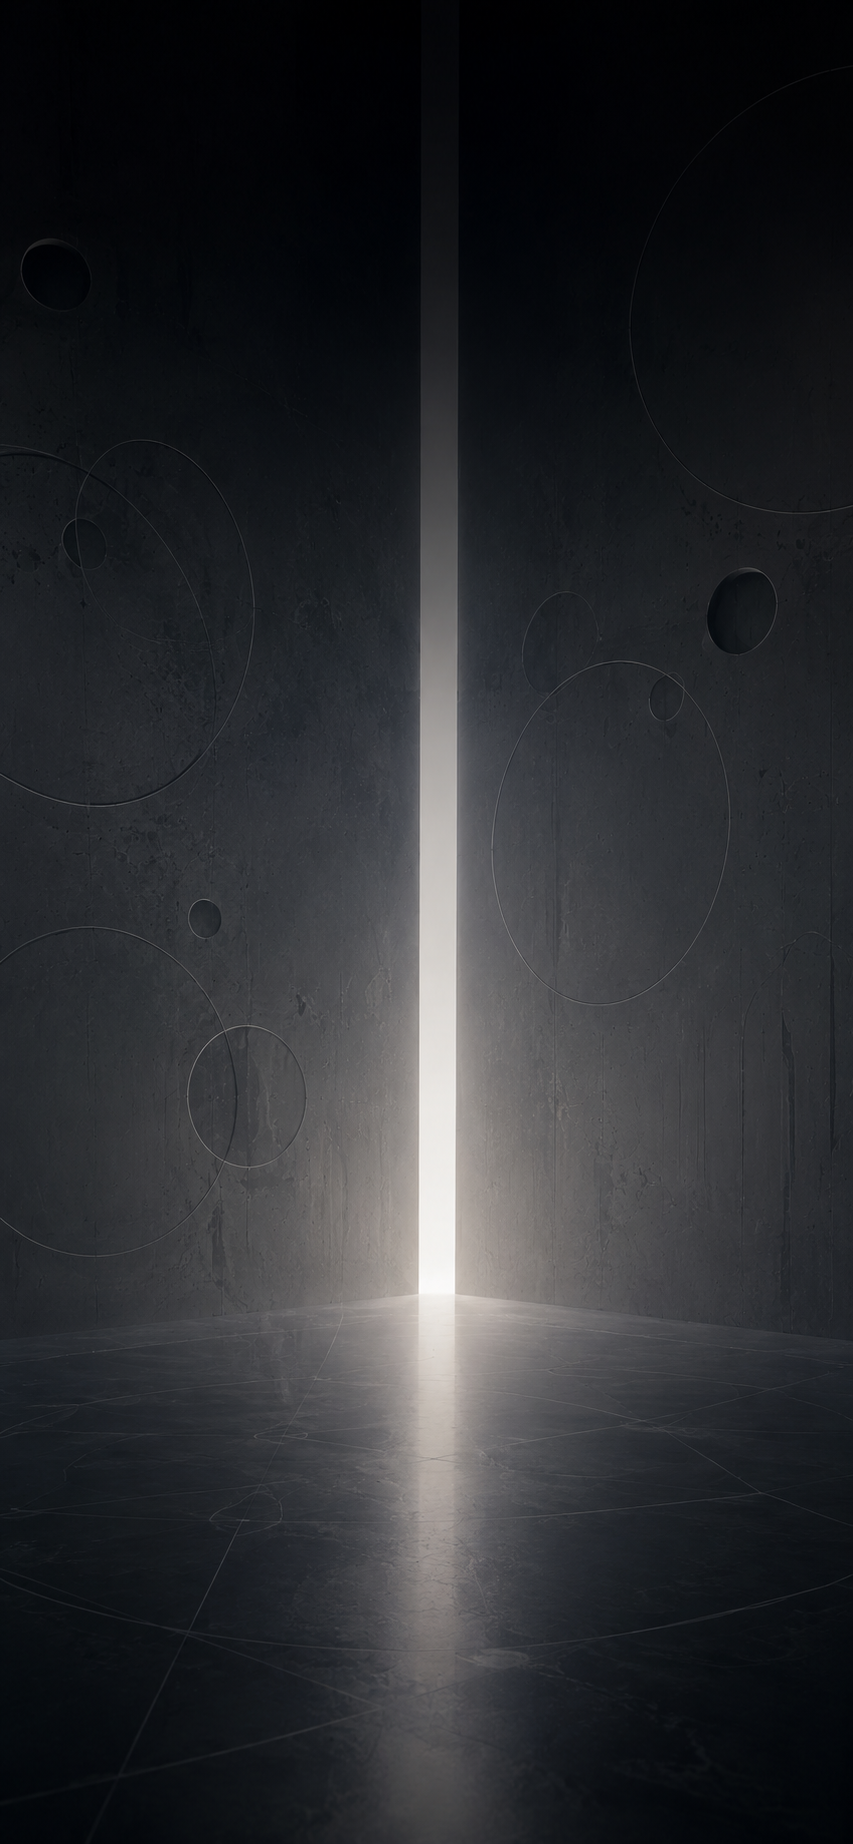
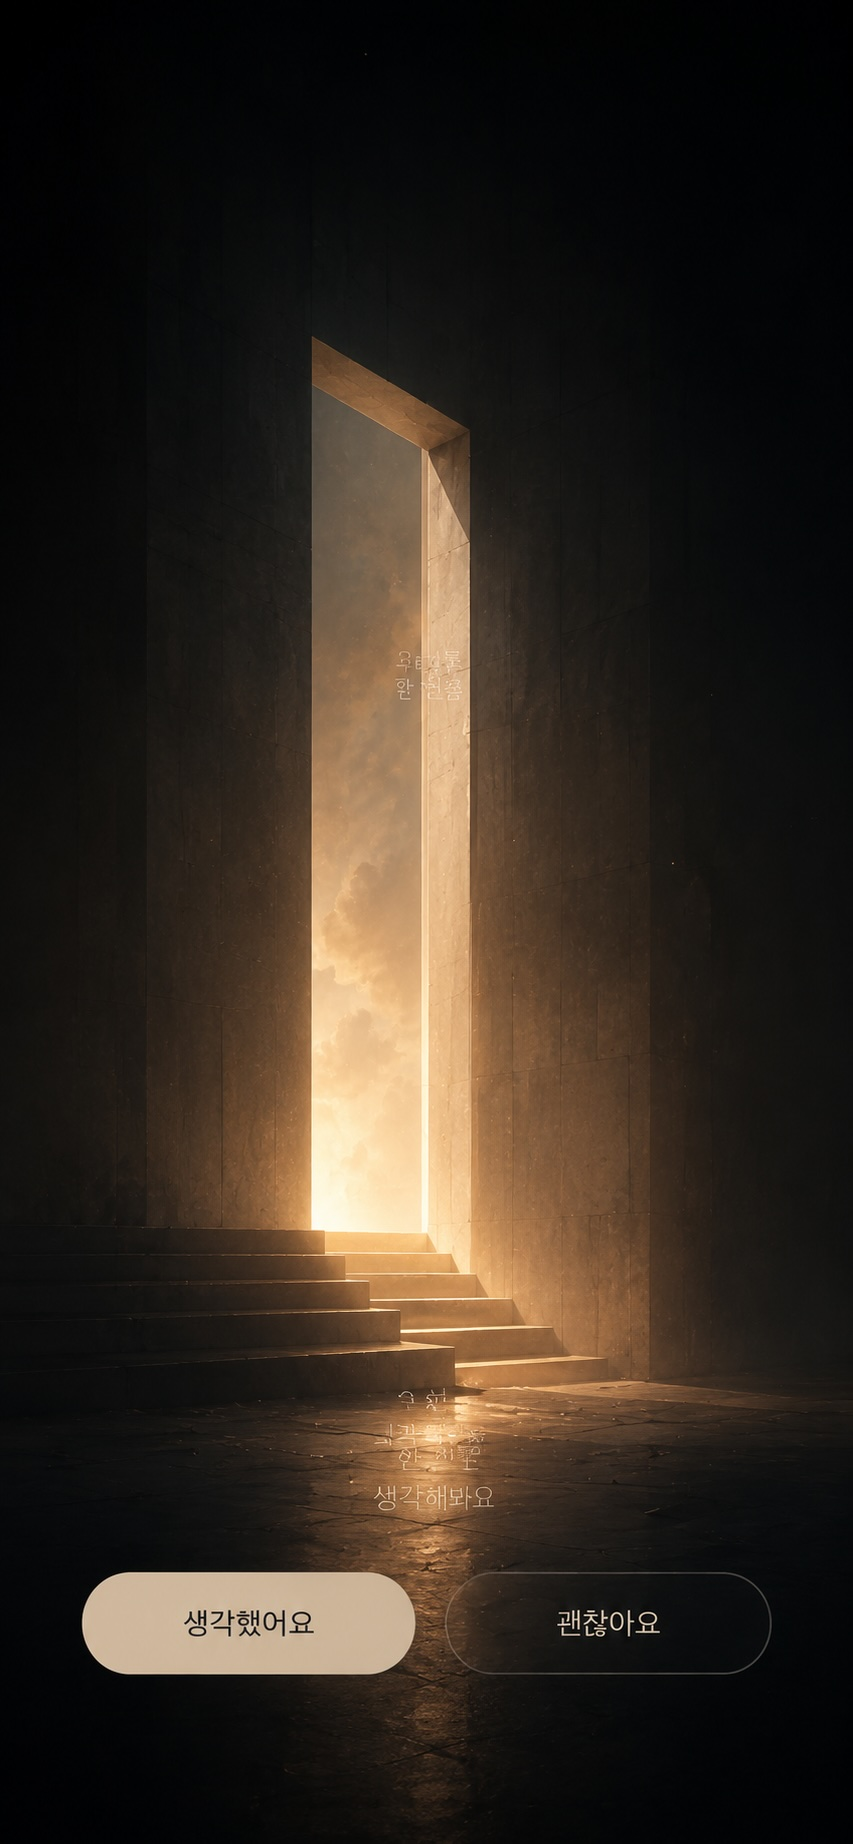
update intervention experience

diff --git a/app/page.tsx b/app/page.tsx
@@ -2121,7 +2121,7 @@ ${url}`;
     >
       {/* 배경 이미지 — 아주 천천히 숨쉬듯 움직임 */}
       <motion.div
-        className="absolute inset-0"
+        className="pointer-events-none absolute inset-0"
         initial={{ scale: 1.04, opacity: 0.92 }}
         animate={{
           scale: [1.04, 1.08, 1.04],
@@ -2140,11 +2140,11 @@ ${url}`;
       />
 
       {/* 어두운 막 */}
-      <div className="absolute inset-0 bg-black/28" />
+      <div className="pointer-events-none absolute inset-0 bg-black/28" />
 
       {/* 위쪽 빛 — 천천히 움직이는 느낌 */}
       <motion.div
-        className="absolute inset-0"
+        className="pointer-events-none absolute inset-0"
         animate={{
           opacity: [0.28, 0.48, 0.28],
           scale: [1, 1.08, 1],
@@ -2162,7 +2162,7 @@ ${url}`;
 
       {/* 아래쪽 가독성 레이어 */}
       <div
-        className="absolute inset-0"
+        className="pointer-events-none absolute inset-0"
         style={{
           background:
             "linear-gradient(to bottom, rgba(0,0,0,0.03), rgba(0,0,0,0.18), rgba(0,0,0,0.52))",
@@ -2171,7 +2171,7 @@ ${url}`;
 
       {/* 아주 미세한 안개 레이어 */}
       <motion.div
-        className="absolute inset-0"
+        className="pointer-events-none absolute inset-0"
         animate={{
           x: [-12, 12, -12],
           opacity: [0.08, 0.16, 0.08],
@@ -2250,8 +2250,10 @@ ${url}`;
           style={{ display: "flex", gap: "12px" }}
         >
           <button
-            style={{
-              flex: 2,
+              style={{
+                position: "relative",
+                zIndex: 30,
+                flex: 2,
               height: "52px",
               background: "rgba(255,255,255,0.86)",
               border: "none",
@@ -2270,8 +2272,10 @@ ${url}`;
           </button>
 
           <button
-            style={{
-              flex: 1,
+              style={{
+                position: "relative",
+                zIndex: 30,
+                flex: 1,
               height: "52px",
               background: "rgba(255,255,255,0.08)",
               border: "0.5px solid rgba(255,255,255,0.22)",